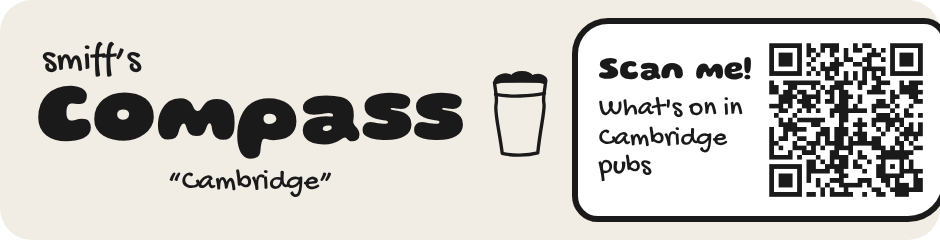
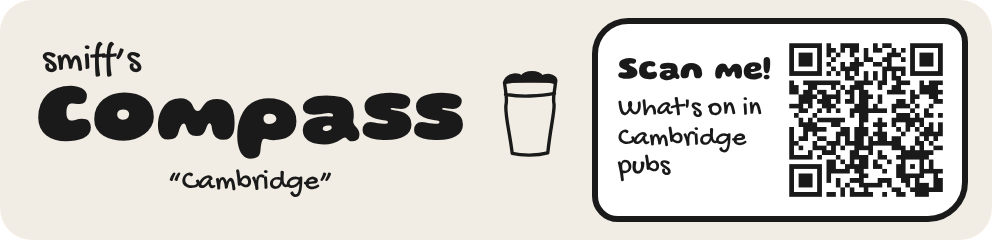
Fix email signature: full Scan me box no longer cut off (496x120)
Claude-Session: https://claude.ai/code/session_012pZA5Eegko1Lw8HYBWQ7sA

Changed region(s): [[0.0309, 0.0583, 1.0, 0.9333], [0.1543, 0.7, 0.3702, 0.8167], [0.0309, 0.175, 0.1543, 0.3208]]

diff --git a/signature.html b/signature.html
@@ -26,7 +26,7 @@ h2{font-size:1.05rem;margin:0 0 4px}
 <p class="lead">Copy it, then paste it into Gmail's signature settings.</p>
 <div class="card" id="sig"><table cellpadding="0" cellspacing="0" border="0" style="font-family:Arial,Helvetica,sans-serif;color:#1A1A1A;font-size:13px;line-height:1.4;border-collapse:collapse">
 <tr><td style="padding:0 0 8px 0"><b style="font-size:14px;color:#1A1A1A">Smiff</b><br><span style="color:#56634F">Cambridge pubs, gigs, quizzes and deals</span></td></tr>
-<tr><td style="padding:0"><a href="https://smiffscompass.smiffscompass.workers.dev/?s=signature" target="_blank" style="text-decoration:none"><img src="https://smiffscompass.smiffscompass.workers.dev/signature.png?v=1" width="470" height="120" alt="Smiff's Compass: scan to see what's on in Cambridge pubs" style="display:block;border:0;width:470px;max-width:100%;height:auto"></a></td></tr>
+<tr><td style="padding:0"><a href="https://smiffscompass.smiffscompass.workers.dev/?s=signature" target="_blank" style="text-decoration:none"><img src="https://smiffscompass.smiffscompass.workers.dev/signature.png?v=2" width="496" height="120" alt="Smiff's Compass: scan to see what's on in Cambridge pubs" style="display:block;border:0;width:496px;max-width:100%;height:auto"></a></td></tr>
 <tr><td style="padding:8px 0 0 0;font-size:13px;color:#1A1A1A"><a href="https://smiffscompass.smiffscompass.workers.dev/?s=signature" target="_blank" style="color:#1A1A1A;font-weight:bold;text-decoration:underline">Smiff's Compass</a>&nbsp; &middot; &nbsp;<a href="https://smiffscompass.smiffscompass.workers.dev/?f=open&amp;s=signature" target="_blank" style="color:#1A1A1A;text-decoration:underline">What's open now</a>&nbsp; &middot; &nbsp;<a href="https://justins-newsletter-bec391.beehiiv.com/subscribe?utm_source=smiffs-compass&amp;utm_medium=email-signature" target="_blank" style="color:#1A1A1A;text-decoration:underline">Get the weekly email</a></td></tr>
 </table></div>
 <div class="actions"><button id="copy" type="button">Copy signature</button><span id="msg" role="status" aria-live="polite"></span></div>
